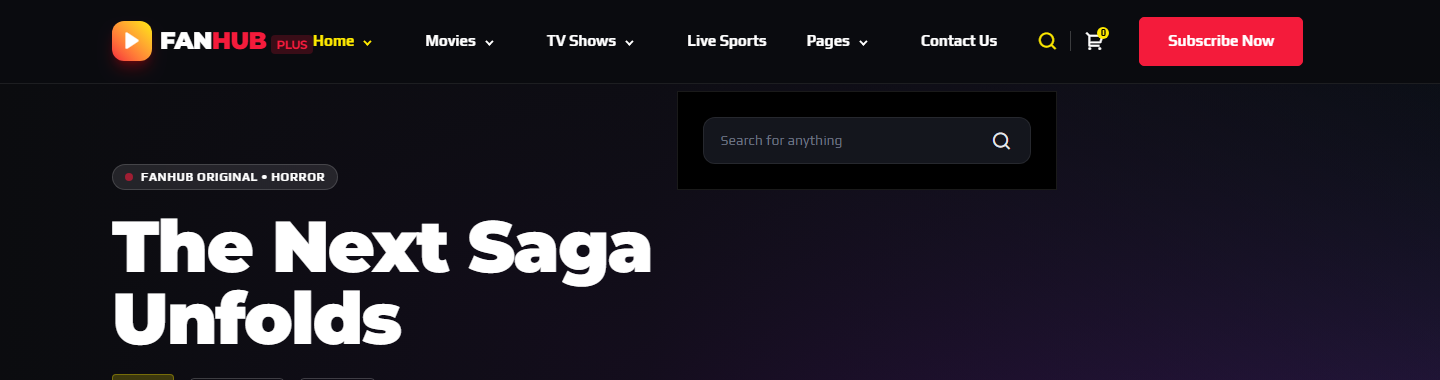
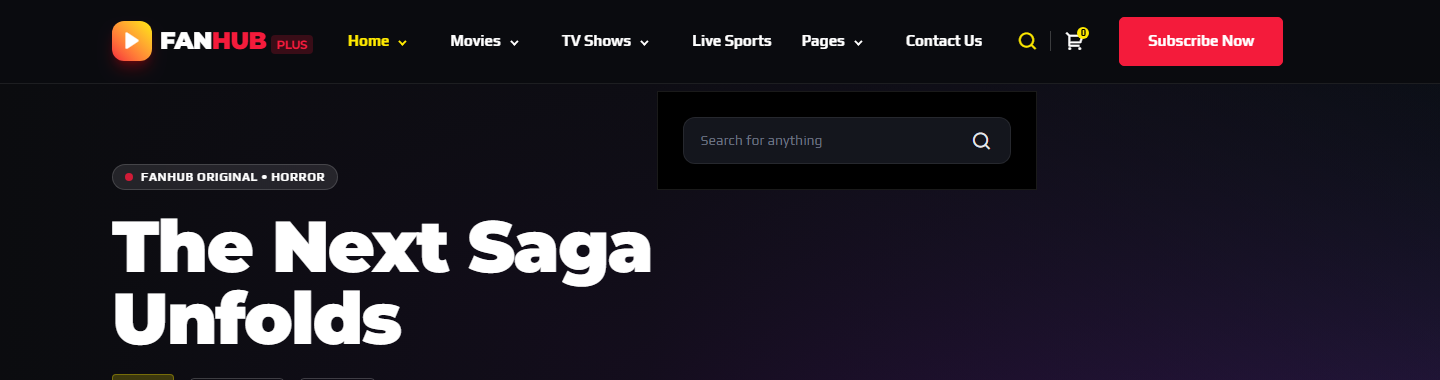
style(theme): add custom theme stylesheet and update navigation assets
Introduce a new dedicated theme stylesheet to centralize visual styling
and update existing navigation screenshots to reflect recent UI changes.

- Create FanHubPlus/wwwroot/css/fanhub-theme.css
- Update desktop and mobile navigation screenshots in navbar-shots/

diff --git a/FanHubPlus/wwwroot/css/fanhub-theme.css b/FanHubPlus/wwwroot/css/fanhub-theme.css
@@ -1,0 +1,101 @@
+/* =====================================================================
+   FanHub Plus - FanHub Design System
+   Hand-authored component layer that sits on top of the Tailwind utility
+   classes so repeated patterns (posters, section headings, rails, panels,
+   forms, tables, accordions...) stay consistent on every page.
+   ===================================================================== */
+
+:root {
+    --fh-bg: #0b0c0f;
+    --fh-bg-soft: #0f1116;
+    --fh-card: #14161d;
+    --fh-card-hover: #1a1d26;
+    --fh-line: rgba(255, 255, 255, 0.08);
+    --fh-line-strong: rgba(255, 255, 255, 0.16);
+    --fh-primary: #f41b3b;
+    --fh-primary-dark: #d01431;
+    --fh-accent: #ffea00;
+    --fh-text: #e5e7eb;
+    --fh-muted: #9ca3af;
+    --fh-dim: #6b7280;
+    --fh-radius: 12px;
+    --fh-radius-lg: 18px;
+    --fh-shadow: 0 24px 50px -24px rgba(0, 0, 0, 0.85);
+    --fh-glow: 0 18px 40px -18px rgba(244, 27, 59, 0.55);
+    --fh-ease: cubic-bezier(0.4, 0, 0.2, 1);
+}
+
+/* ---------- Page shell helpers ---------- */
+.fh-wrap { margin-inline: auto; max-width: 1280px; padding-inline: 1rem; }
+@media (min-width: 640px) { .fh-wrap { padding-inline: 1.5rem; } }
+@media (min-width: 1024px) { .fh-wrap { padding-inline: 2rem; } }
+.fh-section { padding-block: 3.5rem; }
+@media (min-width: 1024px) { .fh-section { padding-block: 4.5rem; } }
+
+/* Soft radial wash used behind inner-page headers & CTA bands */
+.fh-wash { position: relative; isolation: isolate; overflow: hidden; }
+.fh-wash::before {
+    content: "";
+    position: absolute;
+    inset: 0;
+    z-index: -1;
+    background:
+        radial-gradient(60% 90% at 12% 0%, rgba(244, 27, 59, 0.18), transparent 60%),
+        radial-gradient(55% 80% at 92% 12%, rgba(255, 234, 0, 0.07), transparent 62%),
+        linear-gradient(180deg, #12141a 0%, var(--fh-bg) 78%);
+}
+.fh-wash::after {
+    content: "";
+    position: absolute;
+    inset: 0;
+    z-index: -1;
+    opacity: 0.35;
+    background-image:
+        repeating-linear-gradient(90deg, rgba(255, 255, 255, 0.035) 0 1px, transparent 1px 92px),
+        repeating-linear-gradient(0deg, rgba(255, 255, 255, 0.035) 0 1px, transparent 1px 92px);
+    -webkit-mask-image: linear-gradient(180deg, #000, transparent 70%);
+    mask-image: linear-gradient(180deg, #000, transparent 70%);
+}
+
+/* ---------- Section headings ---------- */
+.fh-eyebrow {
+    display: inline-flex;
+    align-items: center;
+    gap: 0.45rem;
+    font-size: 0.72rem;
+    font-weight: 700;
+    letter-spacing: 0.16em;
+    text-transform: uppercase;
+    color: var(--fh-primary);
+}
+.fh-eyebrow::before { content: ""; width: 22px; height: 2px; border-radius: 2px; background: var(--fh-primary); }
+.fh-eyebrow-center::after { content: ""; width: 22px; height: 2px; border-radius: 2px; background: var(--fh-primary); }
+.fh-h1 {
+    font-family: 'Montserrat', sans-serif;
+    font-weight: 900;
+    color: #fff;
+    line-height: 1.06;
+    letter-spacing: -0.02em;
+    font-size: clamp(1.9rem, 4.4vw, 3.1rem);
+}
+.fh-h2 {
+    font-family: 'Montserrat', sans-serif;
+    font-weight: 800;
+    color: #fff;
+    line-height: 1.12;
+    letter-spacing: -0.015em;
+    font-size: clamp(1.35rem, 2.6vw, 2rem);
+}
+.fh-h3 { font-family: 'Montserrat', sans-serif; font-weight: 800; color: #fff; line-height: 1.2; font-size: 1.05rem; }
+.fh-lead { color: var(--fh-muted); font-size: 0.9rem; line-height: 1.7; }
+
+/* Head row: eyebrow + title on the left, controls on the right */
+.fh-head {
+    display: flex;
+    flex-wrap: wrap;
+    align-items: flex-end;
+    justify-content: space-between;
+    gap: 1rem;
+    margin-bottom: 1.6rem;
+}
+.fh-head-center { justify-content: center; text-align: center; }
